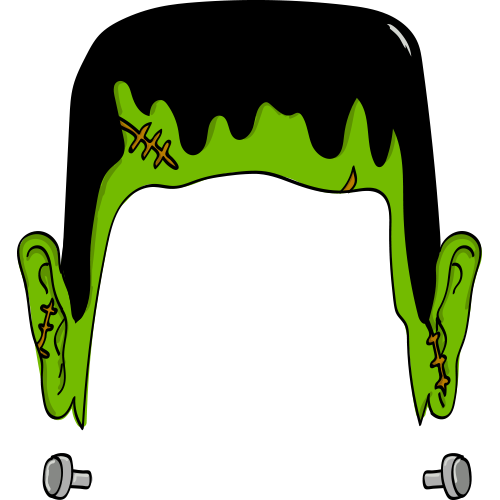
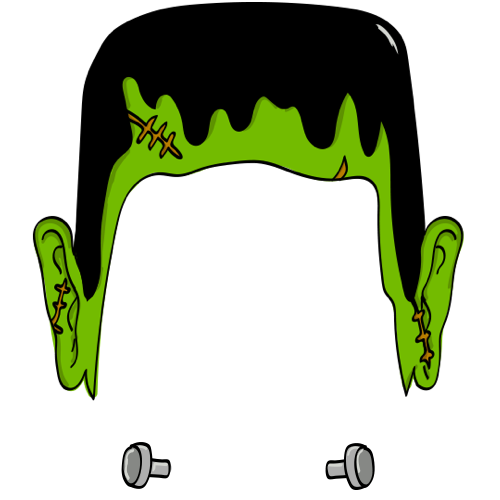
updating mask positions

diff --git a/js/tracker.js b/js/tracker.js
@@ -65,7 +65,7 @@
 				"xpos":".42","ypos":".85","imgwidth":"1.9","imgheight":"1.9"
 		}],
 		"frankenstein":[{
-				"xpos":".19","ypos":".25","imgwidth":"1.45","imgheight":"1.5"
+				"xpos":".1","ypos":".2","imgwidth":"1.25","imgheight":"1.35"
 		}]
 	}];
 

diff --git a/index.php b/index.php
@@ -277,7 +277,7 @@ onclick="this.href = $('#img-out img').attr('src');" download="halloween">downlo
     <div class="item"><img class="change" src="hats/womans_hat.png" data-name="womans_hat"></div>
     <div class="item"><img class="change" src="hats/mummy.png" data-name="mummy"></div>
     <div class="item"><img class="change" src="hats/witch.png" data-name="witch"></div>
-    <div class="item"><img class="change" src="hats/frankenstein.png" data-name="frankenstein"></div>
+    <div class="item dark"><img class=" selected change" src="hats/frankenstein.png" data-name="frankenstein"></div>
   </div>
 
   <div id="bg-thumbs">
